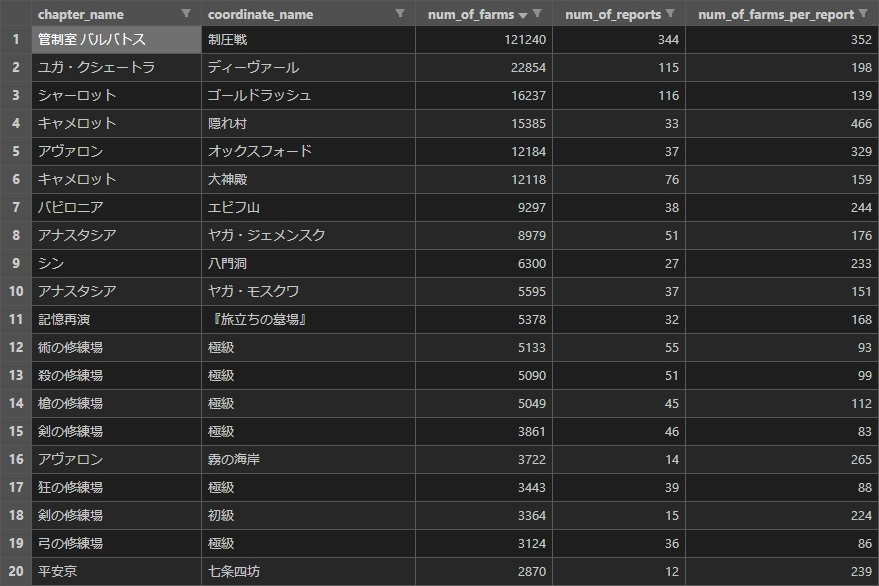
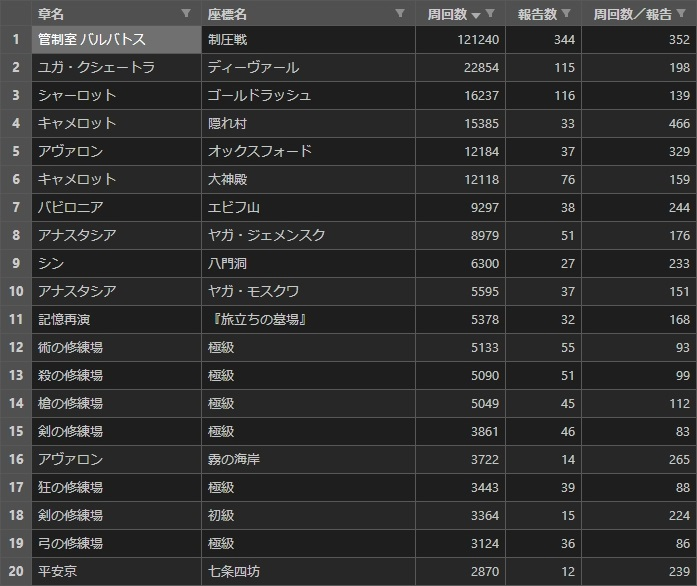
docs: README.mdを更新
下記コミットを反映
  - 生成ファイルの列名を英名から和名に変更
  - 周回報告生成ファイルマージ機能を実装

diff --git a/README.md b/README.md
@@ -29,6 +29,13 @@
     - [5.3.1. 実行コマンド](#531-実行コマンド)
     - [5.3.2. 実行結果](#532-実行結果)
       - [5.3.2.1. 周回報告個人概要ファイル](#5321-周回報告個人概要ファイル)
+  - [5.4. 周回報告生成ファイルマージ](#54-周回報告生成ファイルマージ)
+    - [5.4.1. 実行コマンド](#541-実行コマンド)
+    - [5.4.2. 実行結果](#542-実行結果)
+      - [5.4.2.1. 周回報告一覧マージ結果ファイル](#5421-周回報告一覧マージ結果ファイル)
+      - [5.4.2.2. 周回報告ユーザ全体概要マージ結果ファイル](#5422-周回報告ユーザ全体概要マージ結果ファイル)
+      - [5.4.2.3. 周回報告クエスト全体概要マージ結果ファイル](#5423-周回報告クエスト全体概要マージ結果ファイル)
+      - [5.4.2.4. 周回報告個人概要マージ結果ファイル](#5424-周回報告個人概要マージ結果ファイル)
 - [6. 実行コマンド一覧](#6-実行コマンド一覧)
 - [7. 連絡先](#7-連絡先)
 - [8. ライセンス](#8-ライセンス)
@@ -56,6 +63,9 @@ FGOの周回報告を収集・集計し、csvファイルに保存する。
 - 周回報告個人概要生成
   - 周回報告一覧ファイルを基に周回報告個人概要ファイルを生成する
   - 任意で周回報告一覧ファイルを生成する
+- 周回報告生成ファイルマージ
+  - 上記で生成されたファイルをExcelファイルにマージする
+  - マージ結果ファイルを生成する
 
 
 ## 2.2. 実行結果
@@ -72,14 +82,14 @@ FGOの周回報告を収集・集計し、csvファイルに保存する。
 
 ### 2.2.2. 周回報告ユーザ全体概要ファイル
 
-周回報告による、指定した年月のユーザ(Twitter)ごとの周回概要である。
+周回報告による、指定した年月およびクエスト種別のユーザ(Twitter)ごとの周回概要である。
 
 ![farm_report_total_summary](./pic/farm_report_user_total_summary.JPG)
 
 
 ### 2.2.3. 周回報告クエスト全体概要ファイル
 
-周回報告による、指定した年月のクエストごとの周回概要である。
+周回報告による、指定した年月およびクエスト種別のクエストごとの周回概要である。
 
 ![farm_report_total_summary](./pic/farm_report_quest_total_summary.JPG)
 
@@ -266,10 +276,10 @@ Group C - optional arguments:
 
 下記パスに生成される。
 
-| 種類         | ファイルパス                                                                        |
-| ------------ | ----------------------------------------------------------------------------------- |
-| フォーマット | ./dest/farm_report_total_summary/user/[収集年月]\_[クエスト種別]\_[最低周回数].csv  |
-| 例           | ./dest/farm_report_total_summary/user/2022-01_全て_100周以上.csv                    |
+| 種類         | ファイルパス                                                                       |
+| ------------ | ---------------------------------------------------------------------------------- |
+| フォーマット | ./dest/farm_report_total_summary/user/[収集年月]\_[クエスト種別]\_[最低周回数].csv |
+| 例           | ./dest/farm_report_total_summary/user/2022-01_全て_100周以上.csv                   |
 
 また、下記画像は実行結果の例である。`VSCode Excel Viewer`で開いている。
 
@@ -350,12 +360,102 @@ Group C - optional arguments:
 ![farm_report_individual_summary](./pic/farm_report_individual_summary.JPG)
 
 
+## 5.4. 周回報告生成ファイルマージ
+
+
+### 5.4.1. 実行コマンド
+
+下記コマンドを実行する。
+
+実行例：
+```cmd
+> cd fgo-farm-report-collection
+> poetry run merge -u -a
+```
+
+また、ヘルプを呼び出す時は下記コマンドを実行する。
+
+```cmd
+> poetry run merge -h
+usage: merge [-h] (-l | -u | -q | -i) [-a]
+
+周回報告生成ファイルマージ
+生成されたファイルをExcelファイルにマージします
+
+options:
+  -h, --help            show this help message and exit
+
+Group B - only one required arguments:
+  1つのみ必須な引数
+  処理を指定します
+
+  -l, --merge_list_files
+                        周回報告一覧ファイルマージ要否
+  -u, --merge_user_total_summary_files
+                        周回報告ユーザ全体概要ファイルマージ要否
+  -q, --merge_quest_total_summary_files
+                        周回報告クエスト全体概要ファイルマージ要否
+  -i, --merge_individual_summary_files
+                        周回報告個人概要ファイルマージ要否
+
+Group C - optional arguments:
+  任意の引数
+
+  -a, --append_generated_file
+                        生成ファイル追記要否
+                        指定した場合は生成ファイルをシート単位で追記します
+                        指定しない場合は生成ファイルを上書きします
+```
+
+
+### 5.4.2. 実行結果
+
+4種類のマージ結果ファイルが生成される。
+
+
+#### 5.4.2.1. 周回報告一覧マージ結果ファイル
+
+下記パスに生成される。
+
+| 種類         | ファイルパス                          |
+| ------------ | ------------------------------------- |
+| フォーマット | ./dest/merge_result/周回報告一覧.xlsx |
+
+
+#### 5.4.2.2. 周回報告ユーザ全体概要マージ結果ファイル
+
+下記パスに生成される。
+
+| 種類         | ファイルパス                                    |
+| ------------ | ----------------------------------------------- |
+| フォーマット | ./dest/merge_result/周回報告ユーザ全体概要.xlsx |
+
+
+#### 5.4.2.3. 周回報告クエスト全体概要マージ結果ファイル
+
+下記パスに生成される。
+
+| 種類         | ファイルパス                                      |
+| ------------ | ------------------------------------------------- |
+| フォーマット | ./dest/merge_result/周回報告クエスト全体概要.xlsx |
+
+
+#### 5.4.2.4. 周回報告個人概要マージ結果ファイル
+
+下記パスに生成される。
+
+| 種類         | ファイルパス                              |
+| ------------ | ----------------------------------------- |
+| フォーマット | ./dest/merge_result/周回報告個人概要.xlsx |
+
+
 # 6. 実行コマンド一覧
 
 ```cmd
 > poetry run list-gen -h
 > poetry run tot-gen -h
 > poetry run ind-gen -h
+> poetry run merge -h
 ```
 
 
